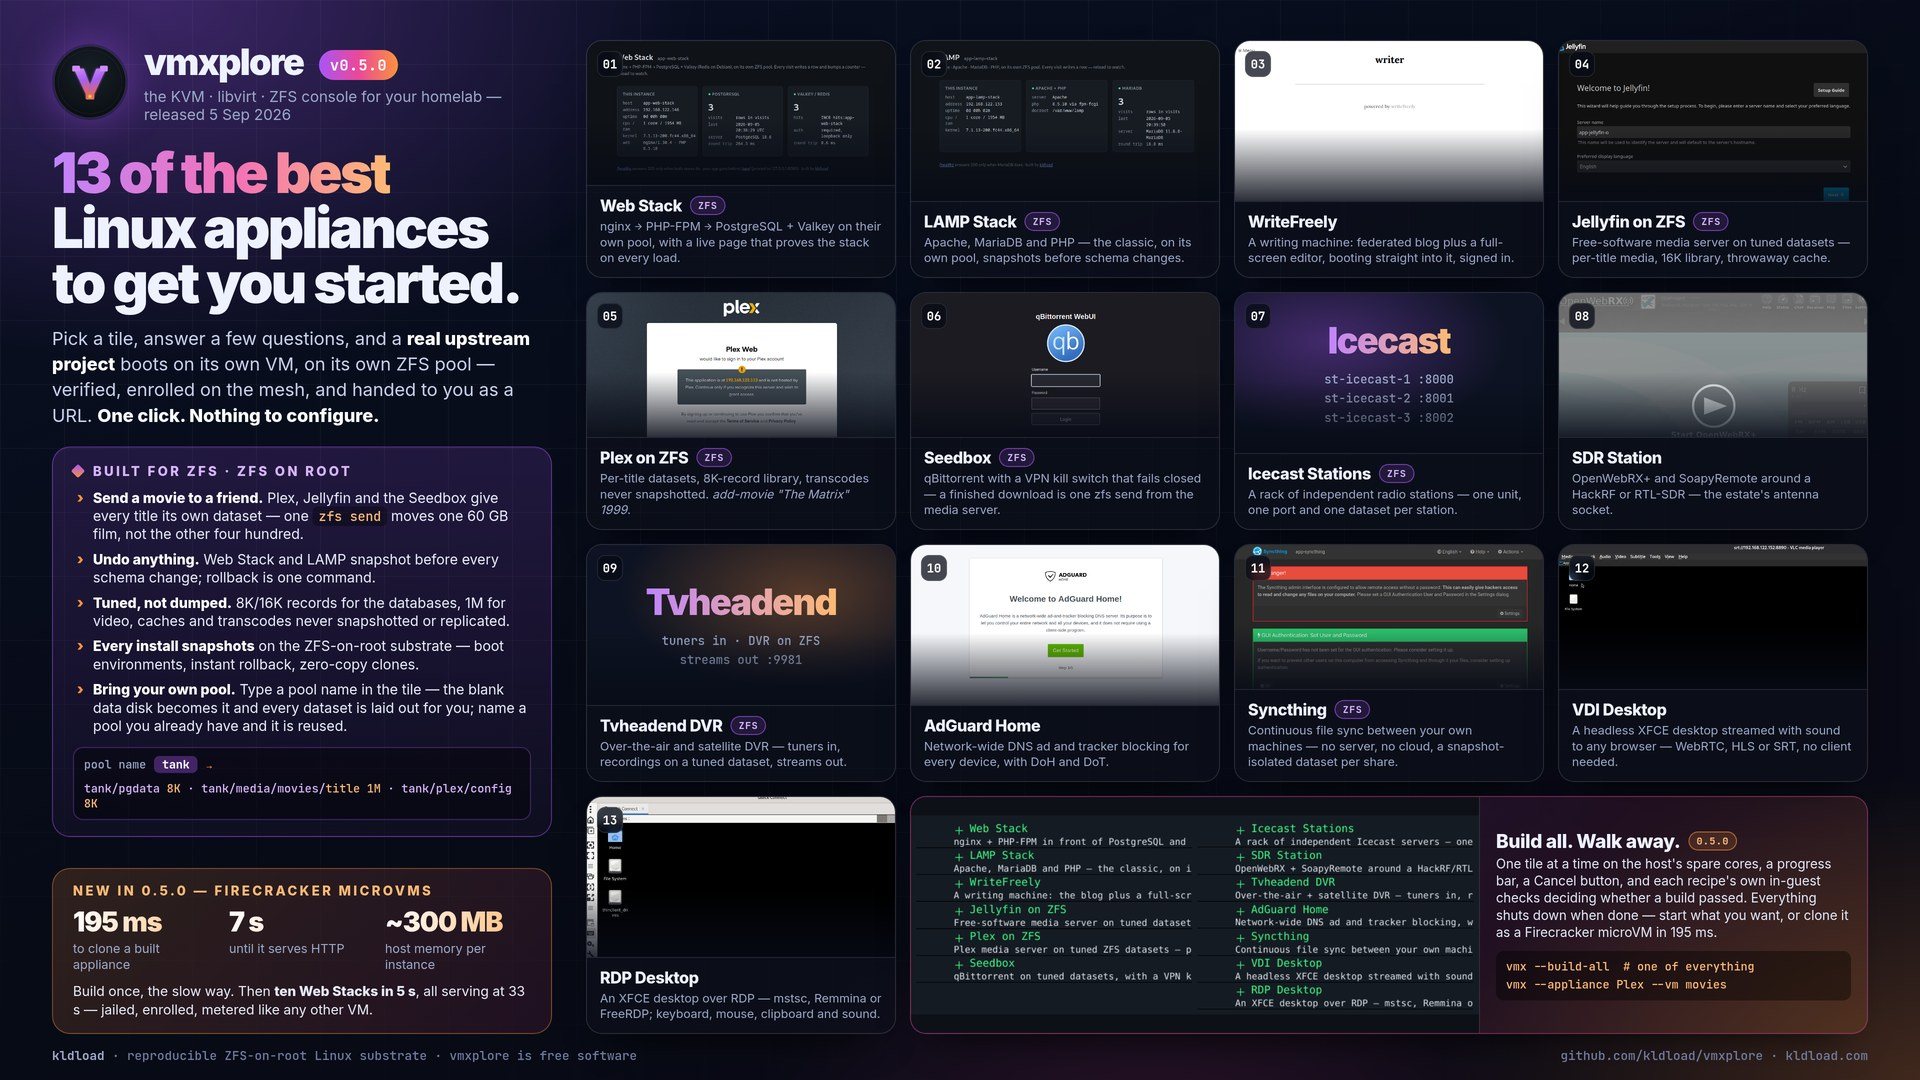
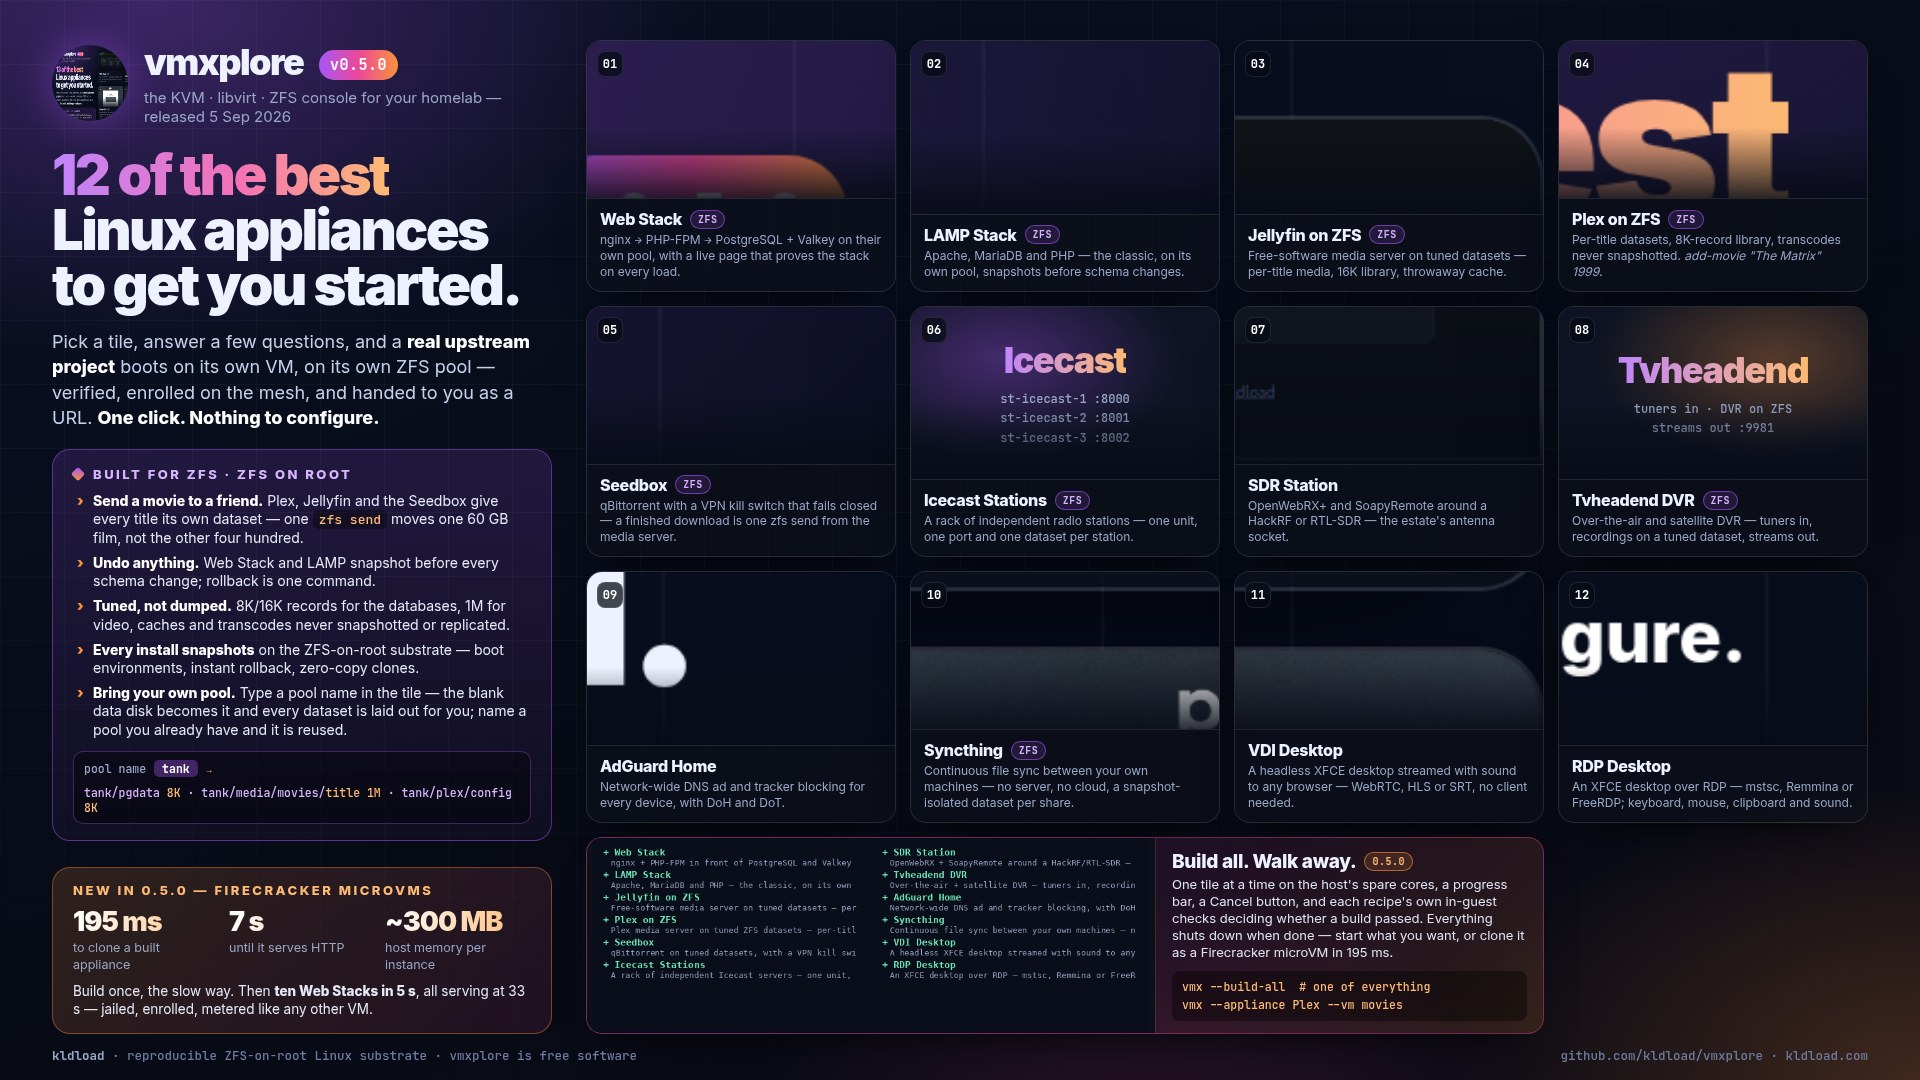
fix: data parent, VDI wall per user, and dead code
Appliance data disks follow /etc/vmxplore/data-parent, so they land on the
big pool instead of beside the roots on the NVMe.

The VDI wall wrote to a fixed path in /tmp -- fine until two users, then one
overwrote the other's. Now keyed by uid.

FCGolden and fcGoldens() moved out of the GUI-tagged file: the CLI needed
them and a build without the gui tag did not have them.

selftest's build-all start event said "finished" before it had.

diff --git a/main.go b/main.go
@@ -98,6 +98,11 @@ Appliances — push-button self-hosted apps (Build ▸ Appliance… in the GUI):
                                           other branch, for proving it
                           By default it waits for the first boot to finish
                           and prints the appliance's real URL on stdout.
+                          The data disk goes under the dataset named in
+                          /etc/vmxplore/data-parent (or $VMX_DATA_PARENT)
+                          when that dataset exists here; otherwise beside
+                          the root disk. Roots on the fast pool, media on
+                          the big one.
   --appliance-script N    print the post-install script instead of building.
                           The output is a standalone bash installer: it needs
                           no vmxplore, no libvirt and no kldload, so it also
@@ -132,6 +137,16 @@ Appliances — push-button self-hosted apps (Build ▸ Appliance… in the GUI):
                           appliance is: mesh, estate cert, inventory row.
                           For a guest with no libvirt domain; kfire calls
                           this for each microVM once it answers.
+  --demo                  one touch, twelve machines: four streamed desktops,
+                          four RDP seats and four LAMP servers cloned AT ONCE
+                          from their goldens, then the VDI wall, the RDP seats
+                          tiled in one window already signed in, and the LAMP
+                          servers in Firefox — each showing its own hostname,
+                          address and its own MariaDB visit count.
+                          VMX_DEMO_COUNT=N deploys N of each instead of 4
+                          (1-12; VMX_DEMO_COUNT=6 is eighteen machines). Undo with --destroy-all-microvms
+                          (or kfire destroy --all). Exits with the number of
+                          lanes that failed.
   --destroy-all           remove every VM this tool built — the app-* builds
                           and any st-* self-test leftover — with their disks,
                           data disks, mesh and inventory rows. Lists them and
@@ -148,10 +163,10 @@ Appliances — push-button self-hosted apps (Build ▸ Appliance… in the GUI):
                           substrates — bare KVM, KVM + ZFS, kldloadOS — with
                           their requirements ticked for this host.
 
-    vmx --appliance WriteFreely --vm blog \
-        WF_SITE_NAME='My Blog' WF_ADMIN_USER=matt
+    vmx --appliance "Icecast Stations" --vm radio \
+        IC_POOL=tank IC_STATIONS=4
 
-    vmx --appliance-script WriteFreely WF_DOMAIN=blog.example.com
+    vmx --appliance-script "Icecast Stations" IC_STATIONS=2
 
 Environment:
   VMX_SSH_USER   user for the TUI's ssh-to-guest verb
@@ -227,6 +242,11 @@ func main() {
 			}
 			os.Exit(SelfTestAppliances(only, keep,
 				func(l string) { fmt.Fprintln(os.Stderr, l) }))
+		case "--demo":
+			// The one-touch demo from a script, for recording: three lanes
+			// at once, then the three surfaces. Exit status is the number of
+			// lanes that failed, so `vmx --demo && say-it-worked` is honest.
+			os.Exit(RunDemoCLI())
 		case "--build-all":
 			// One of everything, kept. Same exit convention as --selftest:
 			// the count of tiles that did not come up.

diff --git a/newvm.go b/newvm.go
@@ -904,7 +904,11 @@ func BuildNewVM(s NewVMSpec, zfsParent string, progress func(string)) error {
 	var dataDiskArg string
 	if s.DataGB > 0 {
 		if zfsParent != "" {
-			dds := zfsParent + "/" + s.Name + "-data"
+			// The data disk may live on a different pool from the root disk:
+			// the OS stays on the NVMe that boots fast, the 50-500 GB media
+			// volume goes where the terabytes are. dataDiskParent says where,
+			// and beside the root disk when nothing does.
+			dds := dataDiskParent(zfsParent, progress) + "/" + s.Name + "-data"
 			if err := run(true, zfsArgv("create", "-s", "-V",
 				fmt.Sprintf("%dG", s.DataGB), dds)...); err != nil {
 				return err
@@ -1125,6 +1129,41 @@ func waitZvolNodeFor(dev string, timeout time.Duration,
 		}
 		time.Sleep(100 * time.Millisecond)
 	}
+}
+
+// dataDiskParent is the dataset under which an appliance's DATA disk is
+// created. Precedence: $VMX_DATA_PARENT, then the one line of
+// /etc/vmxplore/data-parent, then the root disk's own parent. A named parent
+// that does not exist on this host is reported and ignored rather than
+// failing the build — a setting copied from another machine must not stop a
+// tile from building here.
+//
+// fiend, 2026-09-06: rpool is a 1.8 TB NVMe and fireball is six 8 TB disks in
+// three mirrors. Every tile's data disk had landed beside its root on rpool;
+// the Plex and Jellyfin libraries, the seedbox and the DVR belong on fireball.
+func dataDiskParent(rootParent string, progress func(string)) string {
+	want := strings.TrimSpace(os.Getenv("VMX_DATA_PARENT"))
+	if want == "" {
+		if b, err := os.ReadFile("/etc/vmxplore/data-parent"); err == nil {
+			want = strings.TrimSpace(strings.SplitN(string(b), "\n", 2)[0])
+		}
+	}
+	if want == "" || want == rootParent {
+		return rootParent
+	}
+	if _, err := sudoRun(zfsArgv("list", "-H", "-o", "name", want)...); err != nil {
+		progress("data disk parent " + want + " does not exist on this host — using " + rootParent)
+		return rootParent
+	}
+	progress("data disk on " + want + " (from " + dataParentSource() + ")")
+	return want
+}
+
+func dataParentSource() string {
+	if os.Getenv("VMX_DATA_PARENT") != "" {
+		return "$VMX_DATA_PARENT"
+	}
+	return "/etc/vmxplore/data-parent"
 }
 
 // ZFSVMParent derives where VM zvols live on this host from the estate

diff --git a/dataparent_live_test.go b/dataparent_live_test.go
@@ -1,0 +1,46 @@
+package main
+
+import (
+	"os"
+	"strings"
+	"testing"
+)
+
+// TestDataDiskParentLive runs against the host's real pools (sudo zfs), like
+// the other *_live_test.go files: a parent that exists is honoured, one that
+// does not is reported and the root parent is used instead.
+func TestDataDiskParentLive(t *testing.T) {
+	if !HasZFS() {
+		t.Skip("no zfs on this host")
+	}
+	var msgs []string
+	prog := func(s string) { msgs = append(msgs, s) }
+	root, err := sudoRun(zfsArgv("list", "-H", "-o", "name", "-d", "0")...)
+	if err != nil || strings.TrimSpace(root) == "" {
+		t.Skip("no pool visible")
+	}
+	pool := strings.Fields(root)[0]
+
+	t.Setenv("VMX_DATA_PARENT", pool+"/definitely-not-here-"+t.Name())
+	if got := dataDiskParent(pool, prog); got != pool {
+		t.Fatalf("missing parent: got %q, want the root parent %q", got, pool)
+	}
+	if len(msgs) == 0 || !strings.Contains(msgs[len(msgs)-1], "does not exist") {
+		t.Fatalf("missing parent was not reported: %v", msgs)
+	}
+
+	t.Setenv("VMX_DATA_PARENT", pool)
+	if got := dataDiskParent(pool+"/vms", prog); got != pool {
+		t.Fatalf("existing parent: got %q, want %q", got, pool)
+	}
+	if !strings.Contains(msgs[len(msgs)-1], "$VMX_DATA_PARENT") {
+		t.Fatalf("source not named: %v", msgs)
+	}
+
+	t.Setenv("VMX_DATA_PARENT", "")
+	if _, err := os.Stat("/etc/vmxplore/data-parent"); err != nil {
+		if got := dataDiskParent(pool+"/vms", prog); got != pool+"/vms" {
+			t.Fatalf("unset: got %q, want the root parent", got)
+		}
+	}
+}

diff --git a/firecracker.go b/firecracker.go
@@ -90,6 +90,27 @@ func kfireJSON(v any, args ...string) error {
 // `kfire list --json` (a sudo, a shell, jq, virsh) only on a remote target
 // or when the directory is not there to read. The local path is what
 // makes a refresh cost the same at a hundred instances as at one.
+// FCGolden is one kfire golden as `kfire goldens --json` reports it. The
+// type and its fetch live here, in the engine: the CLI's --demo needs them
+// as much as the tree does, and only the CACHE below them is a GUI lifecycle
+// concern (moved out of firecracker_gui.go, 2026-09-06).
+type FCGolden struct {
+	Name     string `json:"name"`
+	VCPUs    int    `json:"vcpus"`
+	RAMMB    int    `json:"ram_mb"`
+	Port     int    `json:"port"`
+	DataZvol string `json:"data_zvol"`
+	Clones   int    `json:"clones"`
+}
+
+func fcGoldens() ([]FCGolden, error) {
+	var out []FCGolden
+	if err := kfireJSON(&out, "goldens", "--json"); err != nil {
+		return nil, err
+	}
+	return out, nil
+}
+
 func fcInstances() ([]FCInstance, error) {
 	if target.SSHHost == "" {
 		if insts, err := fcInstancesLocal(fcInstanceDir); err == nil {

diff --git a/selftest.go b/selftest.go
@@ -580,6 +580,7 @@ func BuildAllAppliances(ctx context.Context, only string, log func(string),
 	// (the VDI desktop before the web stack, onyx 2026-09-04), which is not
 	// what "one at a time" reads as.
 	queue := make(chan int)
+	started := 0 // tiles handed to a worker; the "tile N of M" a start event reports
 	work := func(i int, a Appliance) {
 		vm := applianceVMName(a.Name)
 		tlog := func(l string) {
@@ -594,8 +595,12 @@ func BuildAllAppliances(ctx context.Context, only string, log func(string),
 			mu.Unlock()
 			return
 		}
+		// The start event carries how many tiles have STARTED, not how many
+		// have finished: with four workers the first four all reported
+		// "tile 1 of 13" (fiend, 2026-09-06) because none had finished yet.
 		mu.Lock()
-		prog(finished, len(todo), a.Name)
+		started++
+		prog(started-1, len(todo), a.Name)
 		mu.Unlock()
 		res, lines, url := buildOneAppliance(ctx, a, vm, jobs, tlog)
 		mu.Lock()

diff --git a/vdiwall.go b/vdiwall.go
@@ -176,7 +176,11 @@ func plural(n int) string {
 
 // WriteVDIWall writes the page and returns its path.
 func WriteVDIWall(streams []wallStream) (string, error) {
-	p := filepath.Join(os.TempDir(), "vmx-vdi-wall.html")
+	// Per-user path. A fixed /tmp/vmx-vdi-wall.html is one file two accounts
+	// fight over: the second one to open the wall gets "permission denied"
+	// on a file the first one owns, which is exactly how the demo's wall
+	// failed on onyx (2026-09-06) while everything else worked.
+	p := filepath.Join(os.TempDir(), fmt.Sprintf("vmx-vdi-wall-%d.html", os.Getuid()))
 	if err := os.WriteFile(p, []byte(VDIWallHTML(streams)), 0o644); err != nil {
 		return "", fmt.Errorf("writing the wall page: %w", err)
 	}

diff --git a/firecracker_gui.go b/firecracker_gui.go
@@ -17,23 +17,6 @@ import (
 )
 
 // FCGolden is one row of `kfire goldens --json`.
-type FCGolden struct {
-	Name     string `json:"name"`
-	VCPUs    int    `json:"vcpus"`
-	RAMMB    int    `json:"ram_mb"`
-	Port     int    `json:"port"`
-	DataZvol string `json:"data_zvol"`
-	Clones   int    `json:"clones"`
-}
-
-func fcGoldens() ([]FCGolden, error) {
-	var out []FCGolden
-	if err := kfireJSON(&out, "goldens", "--json"); err != nil {
-		return nil, err
-	}
-	return out, nil
-}
-
 var (
 	fcGoldenC  []FCGolden
 	fcGoldenAt time.Time // the fcAt the goldens were read at

diff --git a/gui_only.go b/gui_only.go
@@ -23,8 +23,8 @@ import (
 
 // nvidiaGuestScript makes a Debian guest ready to drive an NVIDIA card.
 // It is a LAYER: composed onto whatever post-install the operator or an
-// appliance already supplies, exactly as the writing desktop is composed
-// onto the WriteFreely server script.
+// appliance already supplies, the way the writing desktop was once composed
+// onto the WriteFreely server script (that tile left the catalog 2026-09-06).
 //
 // The order matters and each step earned its place:
 //

diff --git a/README.md b/README.md
@@ -373,12 +373,18 @@ guest until it is on.
 
 ## Apps — preconfigured application VMs
 
-<img src="assets/screenshots/appliances-0.5.0.jpg" alt="The thirteen appliances that ship with vmxplore 0.5.0 — Web Stack, LAMP, WriteFreely, Jellyfin, Plex, Seedbox, Icecast, SDR, Tvheadend, AdGuard Home, Syncthing, VDI and RDP desktops — each on its own VM and its own ZFS pool" width="100%"/>
-<sub><em>Thirteen appliances, one card. Each boots as its own VM on its own
+<img src="assets/screenshots/appliances-0.5.0.jpg" alt="The twelve appliances that ship with vmxplore — Web Stack, LAMP, Jellyfin, Plex, Seedbox, Icecast, SDR, Tvheadend, AdGuard Home, Syncthing, VDI and RDP desktops — each on its own VM and its own ZFS pool" width="100%"/>
+<sub><em>Twelve appliances, one card. Each boots as its own VM on its own
 ZFS pool, enrolled on its own WireGuard mesh with a certificate from the
 estate CA, a row in the Ansible inventory and metrics in Grafana. Type a pool
 name in the tile and the blank data disk becomes that pool with every dataset
 laid out; name a pool you already have and it is reused.</em></sub>
+
+The data disk does not have to sit beside the root disk. Put a dataset name in
+`/etc/vmxplore/data-parent` (or set `VMX_DATA_PARENT`) and every appliance's
+data disk is created there — the OS on the NVMe pool that boots fast, the
+Plex library on the pool with the terabytes. kfire follows: a microVM's data
+clone lands beside its data golden, whichever pool that is.
 
 Pick an entry, answer its handful of app-specific questions, and the ordinary
 New VM pipeline builds it: cloud image, cloud-init, a fixed post-install script,
@@ -407,7 +413,6 @@ how to log in:
 |---|---|
 | **[Web Stack](https://nginx.org)** | 2 vCPU / 2 GB. nginx + PHP-FPM in front of PostgreSQL and Valkey on their own pool, with a live example page |
 | **[LAMP Stack](https://httpd.apache.org)** | 2 vCPU / 2 GB. Apache, MariaDB and PHP — the classic, on its own pool, with a live example page |
-| **[WriteFreely](https://writefreely.org)** | 2 vCPU / 3 GB. A writing machine: the blog plus a full-screen editor, booting straight into it |
 | **[Jellyfin on ZFS](https://jellyfin.org)** | 2 vCPU / 2 GB. Free-software media server on tuned datasets — per-title media, 16K library, throwaway cache |
 | **[Plex on ZFS](https://www.plex.tv)** | 2 vCPU / 2 GB. Plex media server on tuned ZFS datasets — per-title datasets, 8K-record library, throwaway transcodes |
 | **[Seedbox](https://www.qbittorrent.org)** | 2 vCPU / 2 GB. qBittorrent on tuned datasets, with a VPN kill switch that fails closed |
@@ -423,10 +428,10 @@ From the terminal, no GUI needed:
 
 ```bash
 vmx --appliances                       # the catalog, with each entry's fields
-vmx --appliance-script WriteFreely   # print the installer, build nothing
+vmx --appliance-script "Icecast Stations"   # print the installer, build nothing
 
-vmx --appliance WriteFreely --vm blog \
-    WF_SITE_NAME="My Blog" WF_ADMIN_USER=matt
+vmx --appliance "Icecast Stations" --vm radio \
+    IC_POOL=tank IC_STATIONS=4
 
 vmx --selftest                         # build + audit every tile, keep the failures
 vmx --build-all                        # one of everything, kept as app-<tile>

diff --git a/CHANGELOG.md b/CHANGELOG.md
@@ -2,6 +2,22 @@
 
 ## Unreleased
 
+- **WriteFreely is gone from the catalog.** Both the server tile and the
+  writing desktop built on it. Not a workload the operator would run, and
+  upstream never answered the request to include it. Twelve tiles remain;
+  the generic appliance tests now own a fixture instead of leaning on a
+  catalog entry.
+- **Data disks where the terabytes are.** `/etc/vmxplore/data-parent` (or
+  `VMX_DATA_PARENT`) names the dataset appliance data disks are created
+  under; the root disk stays with the other VMs. A parent that does not
+  exist on the host is reported and ignored. fiend, 2026-09-06: rpool is a
+  1.8 TB NVMe, fireball is 21.8 TB of mirrors; every data disk had landed on
+  the NVMe.
+- **Icecast Stations builds on Fedora again.** The unit's NoNewPrivileges=
+  stopped SELinux from moving icecast into its confined domain, so it ran
+  as init_t, was denied the stylesheets, and every station answered "404 -
+  Could not parse XSLT file". The unit drops that line, log directories are
+  labelled icecast_log_t, and ports 8001-8064 are labelled for the domain.
 - **Clone, then look.** The Clone microVMs dialog asks, with a checkbox
   whose label says what will happen for the chosen golden: the VDI wall for
   streamed desktops, one RDP session per seat for the RDP desktop, one
